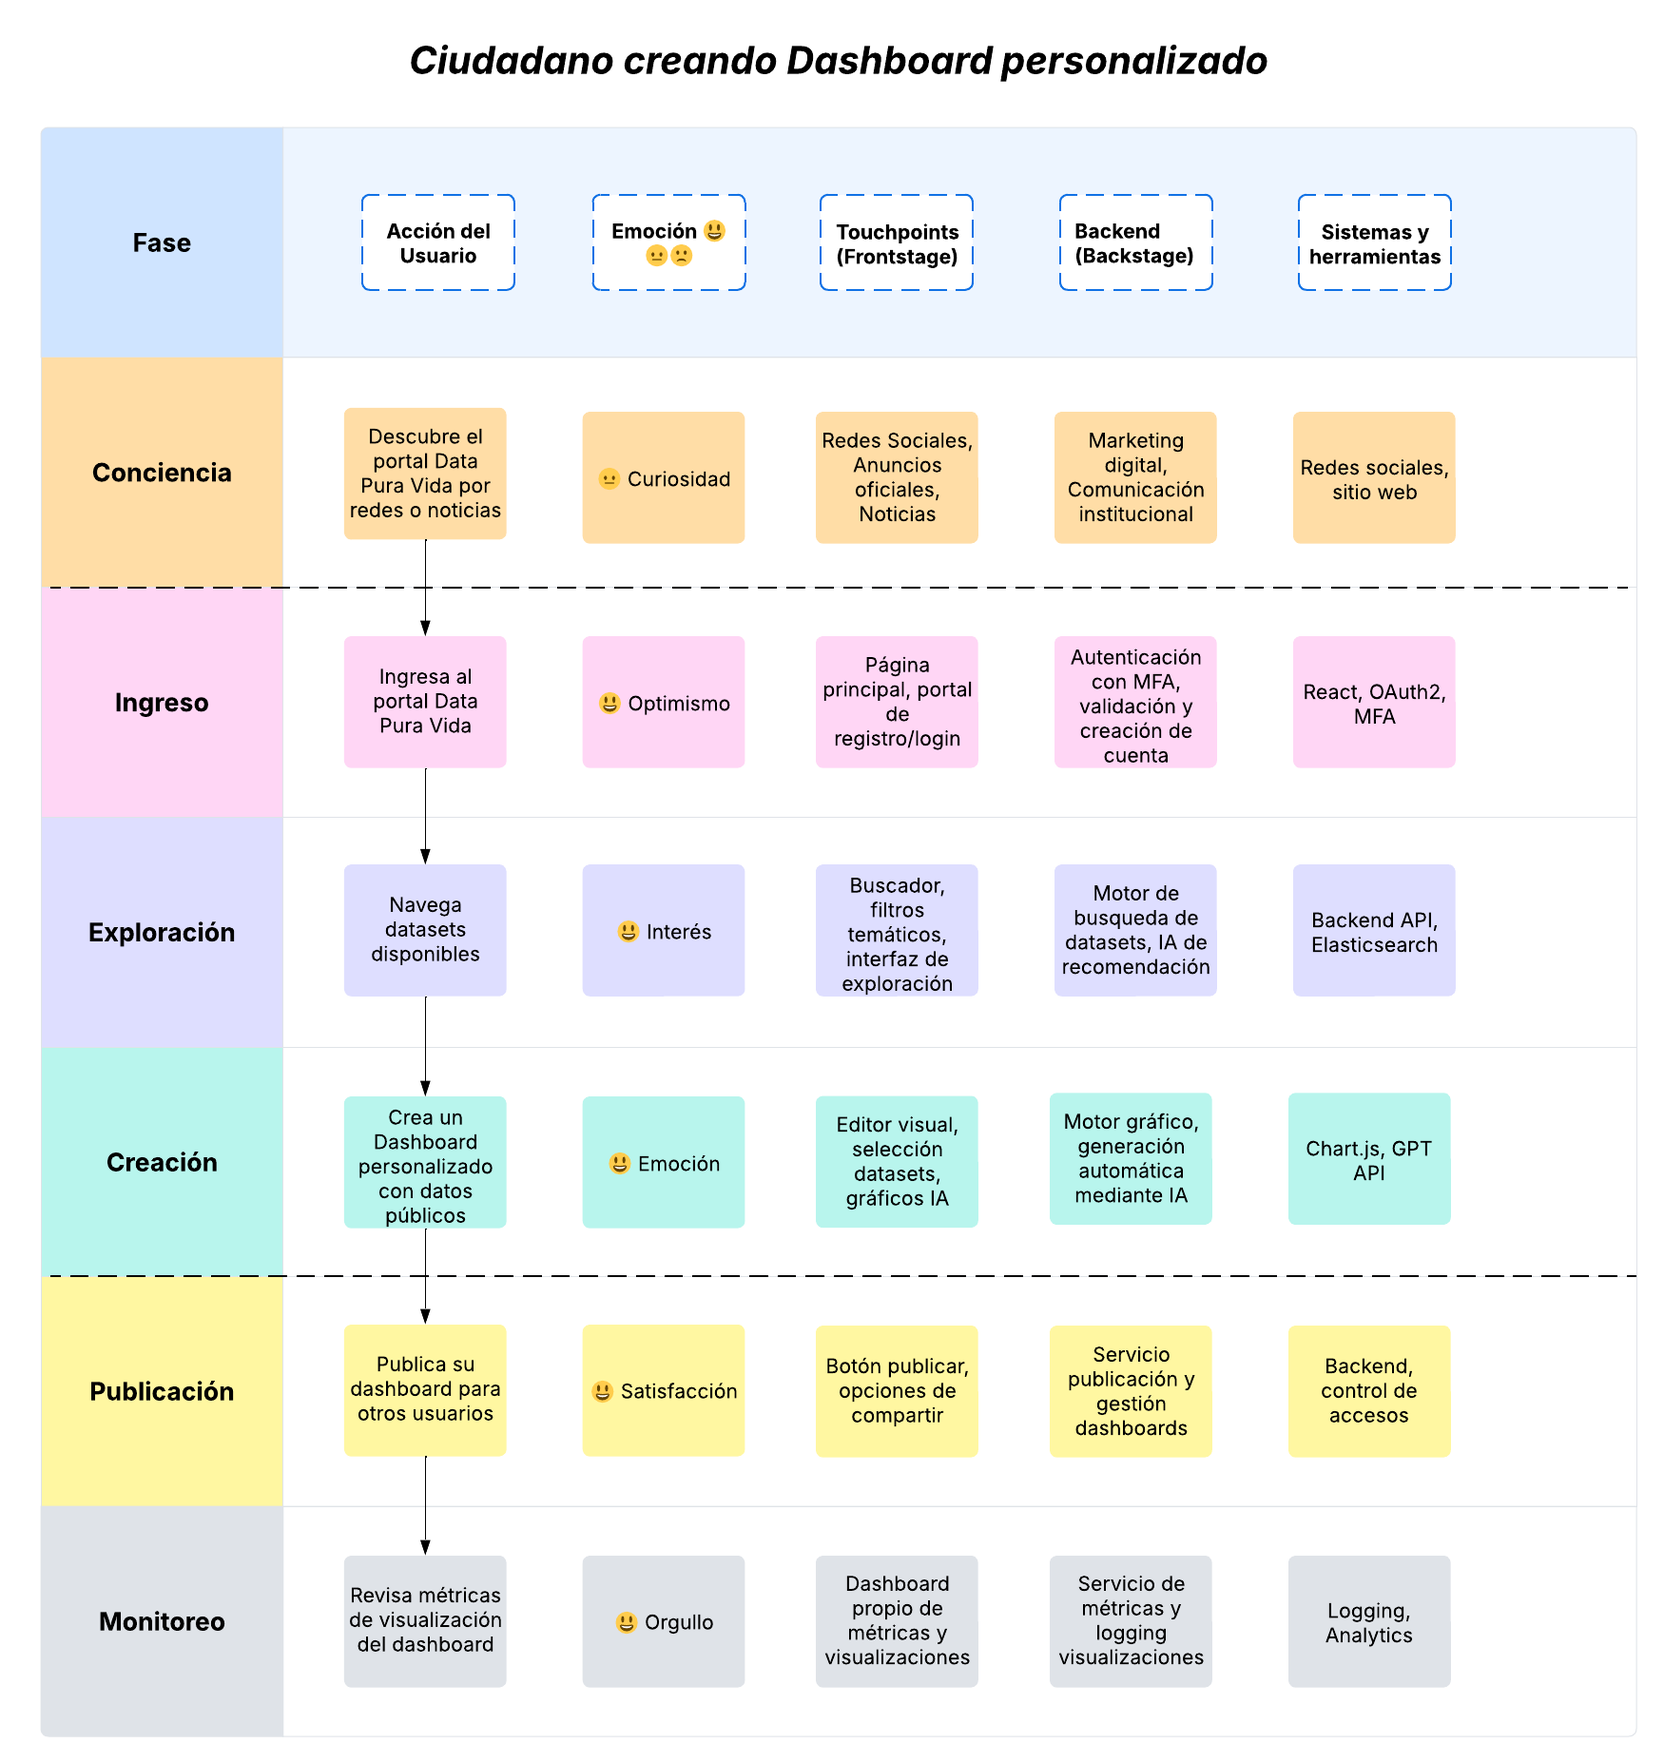
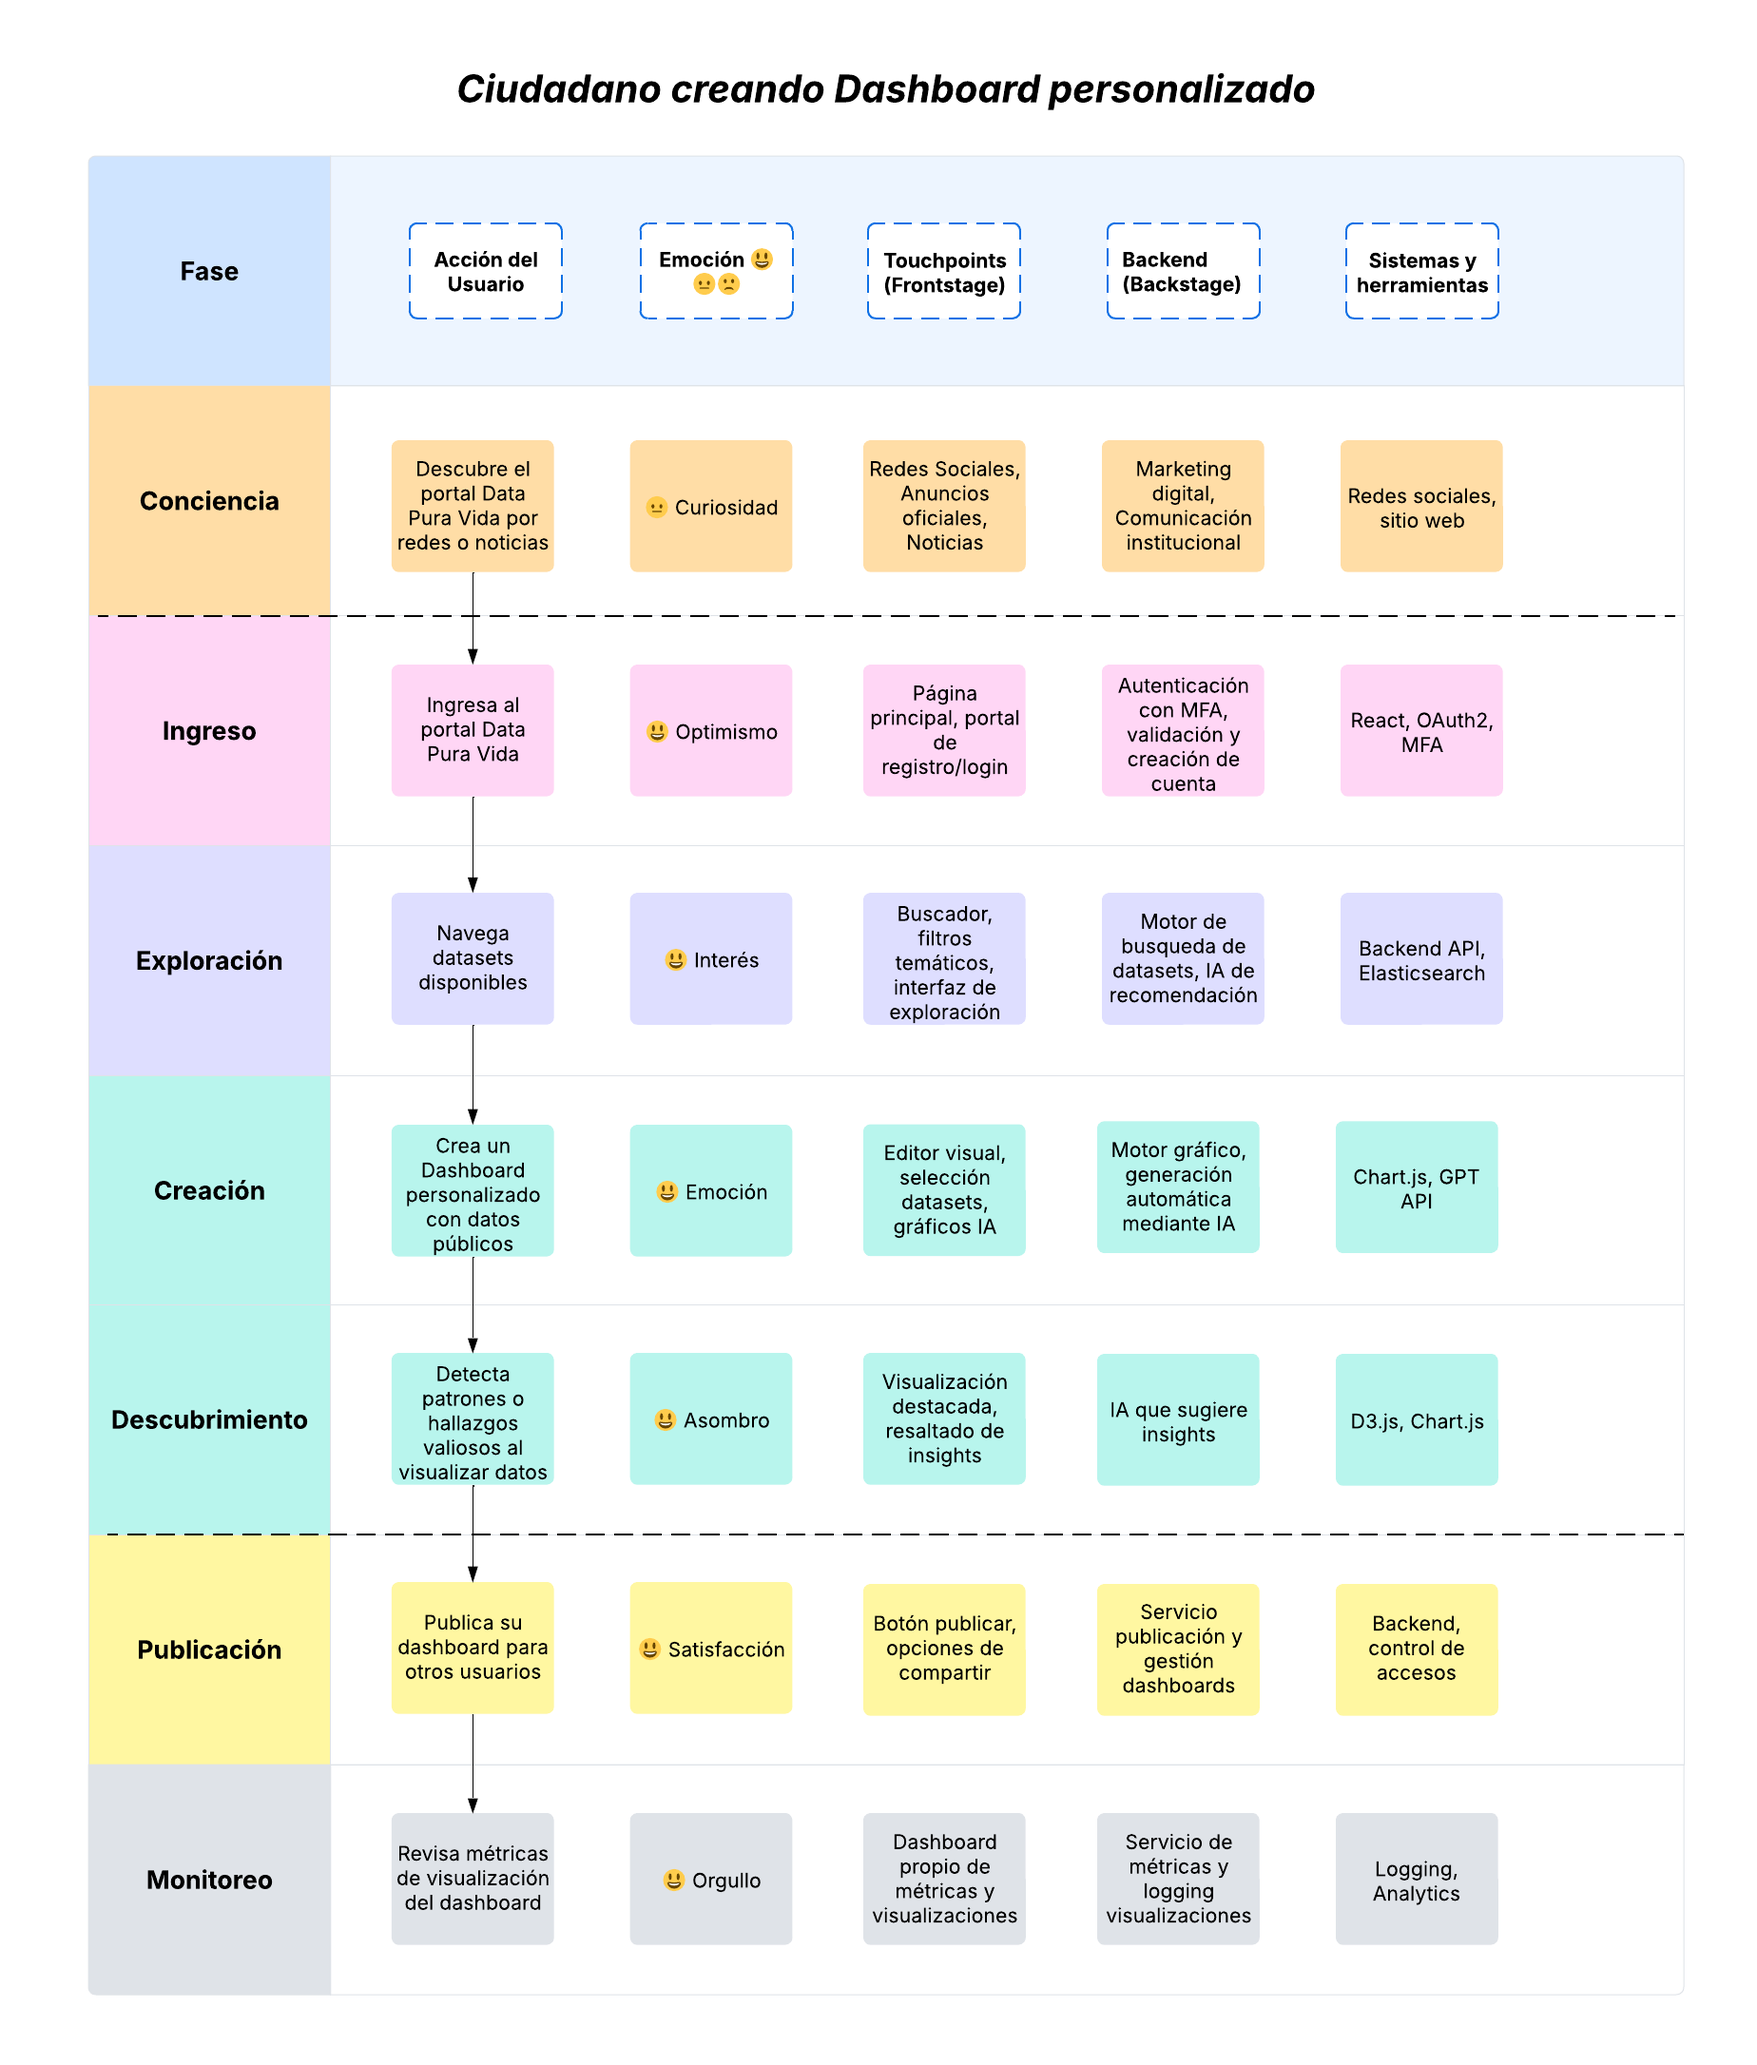
correcciones journey#1 y adicion journey #2

diff --git a/README.md b/README.md
@@ -112,9 +112,11 @@ Este blueprint se organiza en **seis** fases principales:
 
 ![alt text](img/journey1.png)
 
-Este Service Blueprint representa el recorrido de una institución pública que desea compartir información dentro de Data Pura Vida, desde el registro inicial hasta la publicación de un dataset restringido con modelo de cobro.
+Este blueprint representa el recorrido completo de una empresa desde que conoce la plataforma Data Pura Vida hasta que publica y monetiza un conjunto de datos privado. 
 
-El blueprint cubre tanto las acciones visibles para el usuario institucional como los procesos internos que ejecuta la plataforma para validar la identidad, proteger los datos y habilitar el acceso controlado a los consumidores.
+El diagrama incluye una fase clave denominada “Validación de valor”, donde la empresa analiza el potencial del dataset antes de publicarlo. Esta etapa intermedia refuerza la decisión estratégica de monetización al mostrar métricas de calidad, vistas previas y recomendaciones automáticas generadas por IA, asegurando que los datos ofrecidos sean realmente útiles para otros actores del ecosistema.
+
+![alt text](img/journey2.png)
 
 **Fases principales:**
 
